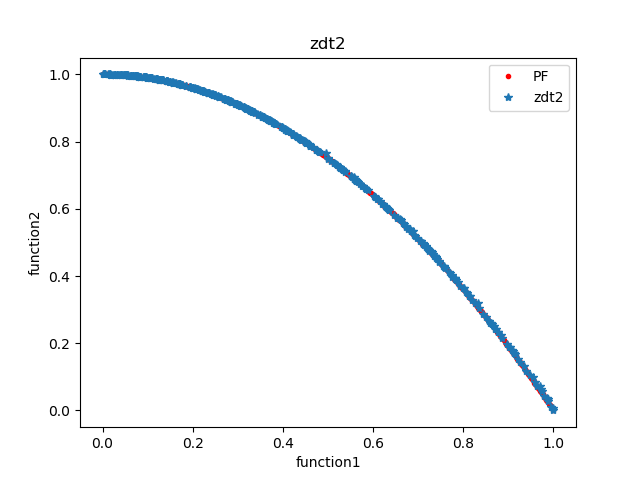
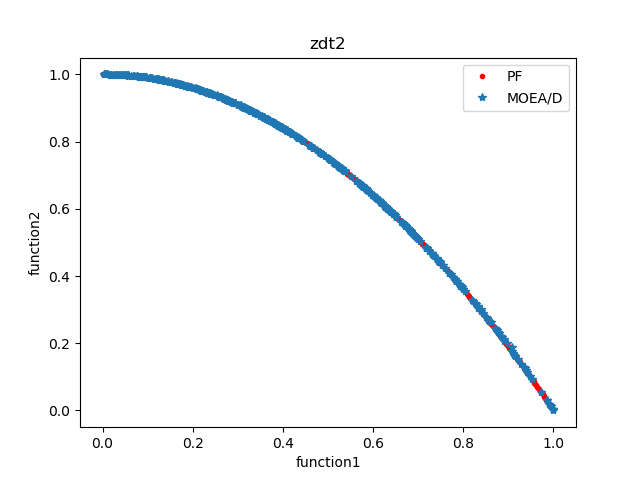
add

diff --git a/MOEA-D/main.py b/MOEA-D/main.py
@@ -219,7 +219,7 @@ class MOEAD:
         for i in range(len(ep)):
             f1 = ep[i].f[0]
             f2 = ep[i].f[1]
-            if f1 <= 1 and f2 <= 1 or self.test_func is  TestFunc.type_zdt4:
+            if f1 <= 1 and f2 <= 1 or self.test_func is TestFunc.type_zdt4:
                 x.append(f1)
                 y.append(f2)
         pareto = np.loadtxt("pareto/{}.txt".format(self.test_func))
@@ -227,7 +227,7 @@ class MOEAD:
         plt.plot(x, y, '*')
         plt.xlabel('function1')
         plt.ylabel('function2')
-        plt.legend(["PF", self.test_func], loc="best")
+        plt.legend(["PF", "MOEA/D"], loc="best")
         plt.title(self.test_func)
         plt.savefig(self.test_func + ".png", dpi=100)
         plt.show()
